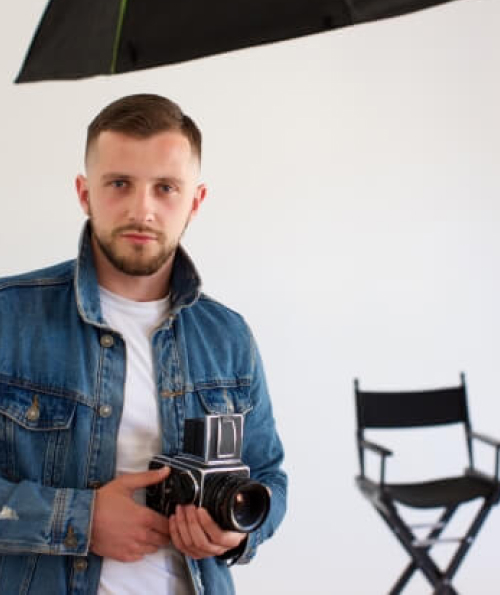
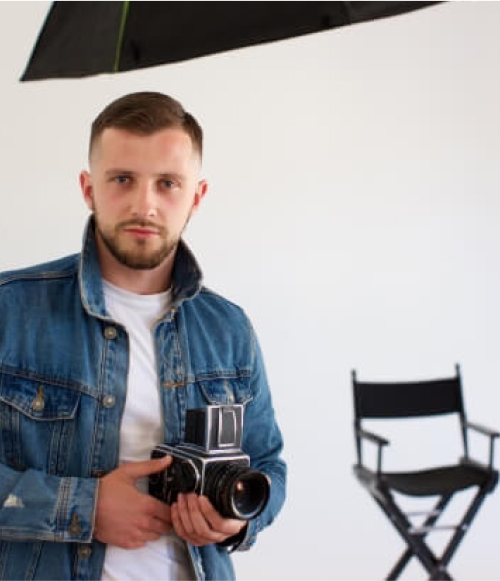
RWD修改1

diff --git a/about_us.css b/about_us.css
@@ -17,17 +17,13 @@
 .teacher_block_three,
 .teacher_block_four {
     margin: auto;
-    display: flex;
-    flex-direction: column;
-    flex-wrap: wrap;
-    align-content: center;
     padding-bottom: 100px;
     padding-top: 100px;
 }
 
 .teacher_introduce {
     display: flex;
-    justify-content: space-between;
+    justify-content: center;
     align-items: center;
 }
 
@@ -44,16 +40,20 @@
 .teacher_block_two .introduce_block,
 .teacher_block_four .introduce_block {
     order: 1;
-    padding-left: 1em;
+
+}
+.introduce_block{
+    padding: 1em;
+    width: 50%;
 }
 
 .introduce_block span {
-    width: 30em;
+
     font-size: 1.5em;
 }
 
 article {
-    width: 40em;
+    width: 100%;
     font-family: 'Noto Sans TC', sans-serif;
     line-height: 1.8em;
     letter-spacing: 0.2em;
@@ -86,9 +86,20 @@ article {
 .teacher_block_two .teacher_name_stick,
 .teacher_block_four .teacher_name_stick {
     justify-content: end;
+    padding: 0 12% 0;
+}
+
+.teacher_block_one .teacher_name_stick,
+.teacher_block_three .teacher_name_stick{
+    padding: 0 12% 0;
+}
+
+.teacher_img{
+    width: 25%;
 }
 
 .teacher_img img {
+    width: 100%;
     border-radius: 15px;
 }
 
@@ -105,6 +116,8 @@ article {
     position: relative;
     overflow: hidden;
     height: 400px;
+    width: 77%;
+    margin: auto;
 }
 
 .teacher_work img {
@@ -114,9 +127,9 @@ article {
 
 .teacher_work_inner {
     left: 0px;
-    width: 100%;
     display: flex;
     position: absolute;
+    margin: auto;
 }
 
 /* 自適應 */
@@ -132,22 +145,27 @@ article {
         order: 0;
 
     }
-}
 
-@media screen and (max-width: 1024px) {
-    .introduce_block {
-        width: 40em;
+    .teacher_name_stick{
+        justify-content: center;
     }
-
-    article {
-        width: 30em;
+    .teacher_img{
+        width: 50%;
     }
 }
 
+@media screen and (max-width: 768px) {
+    .teacher_img{
+        width: 100%;
+        padding: 1em;
+    }
+
+    .introduce_block{
+        width: 100%;
+    }
+}
+    
 @media screen and (max-width: 414px) {
-    .teacher_img img{
-        width: 300px;
-    }
     .teacher_name_stick{
         display: none;
     }

diff --git a/index.html b/index.html
@@ -507,6 +507,38 @@
             );
         });
     </script>
+    <script>
+        $(function () {
+            let showheight = 500
+            $('.news_block').css({
+                dispaly: 'block',
+                opacity: 0,
+            })
+
+            $(window).scroll(function () {
+                $('.news_block').each(function () {
+                    let newTop = $(this).offset().top 
+                    //newTop = .this(.news_block)與螢幕的距離(offset()=與螢幕的距離)後面的.top不用加小括號，指物件和螢幕上面的距離
+                    console.log(newTop)
+                    if ($(window).scrollTop() >= (newTop + showheight) - $(window).height()) {
+                        //$(window).scrollTop() 滾動視窗的垂直滾動距離。
+                        //當window滾動視窗的垂直滾動距離大於或等於(.new_top與螢幕的距離 + showheight(500)- $(window)的高度)
+                        $(this).stop().fadeIn(500).css({
+                            dispaly: 'flex',
+                            opacity: 1,
+                        })
+                    } else {
+                        $(this).stop().fadeOut(500).css({
+                            dispaly: 'flex',
+                            opacity: 0
+                        })
+                    }
+                })
+            })
+        });
+    </script>
+
+
 
 </body>
 

diff --git a/first_page_body.css b/first_page_body.css
@@ -366,6 +366,7 @@
     z-index: 9;
     position: relative;
     justify-content: center;
+    padding: 1em;
 }
 
 .active_word,
@@ -390,6 +391,7 @@
     z-index: 9;
     position: relative;
     justify-content: center;
+    padding: 1em;
     
 }
 
@@ -411,6 +413,7 @@
     margin-bottom: 100px;
     position: relative;
     z-index: 9;
+    padding: 1em;
 }
 
 .gallery_block p {}
@@ -451,9 +454,10 @@
     position: relative;
     z-index: 9;
     padding-bottom: 5%;
+    padding: 1em;
 }
 
-.contact_us_block p {}
+
 
 .contact_us_block_groupone {
     display: flex;
@@ -733,6 +737,9 @@
 
 }
 
+
+
+
 /* 自適應1024 */
 @media screen and (max-width: 1024px) {
     .first_page_img {
@@ -799,6 +806,9 @@
     /* author */
     .author_word_logo {
         padding: 50px;
+    }
+    .gallery_block_word{
+        width: 100%;
     }
 
     
@@ -972,6 +982,10 @@
         background-color: #4a4f56;
     }
 
+    .contact_us_word {
+        width: 100%;
+    }
+
 }
 
 @media screen and (max-width: 568px) {
@@ -1117,5 +1131,8 @@
     .contact_us_number {
         top: -25%;
         left: 15%;
+    }
+    .active_word, .class_word{
+        width: 100%;
     }
 }

diff --git a/free_class.css b/free_class.css
@@ -83,6 +83,10 @@
     transform: translateY(-50%);
     text-align: start;
 }
+.float{
+    opacity: 1;
+    transition: opacity .5s;
+}
 
 @media screen and (max-width: 768px) {
      .card_img img {
@@ -118,10 +122,5 @@
         width: 100%;
     }
 
-    .card_word {
-        /* position: absolute;
-        top: 60%;
-        left: 100%;
-    } */
-    }
+  
 }
